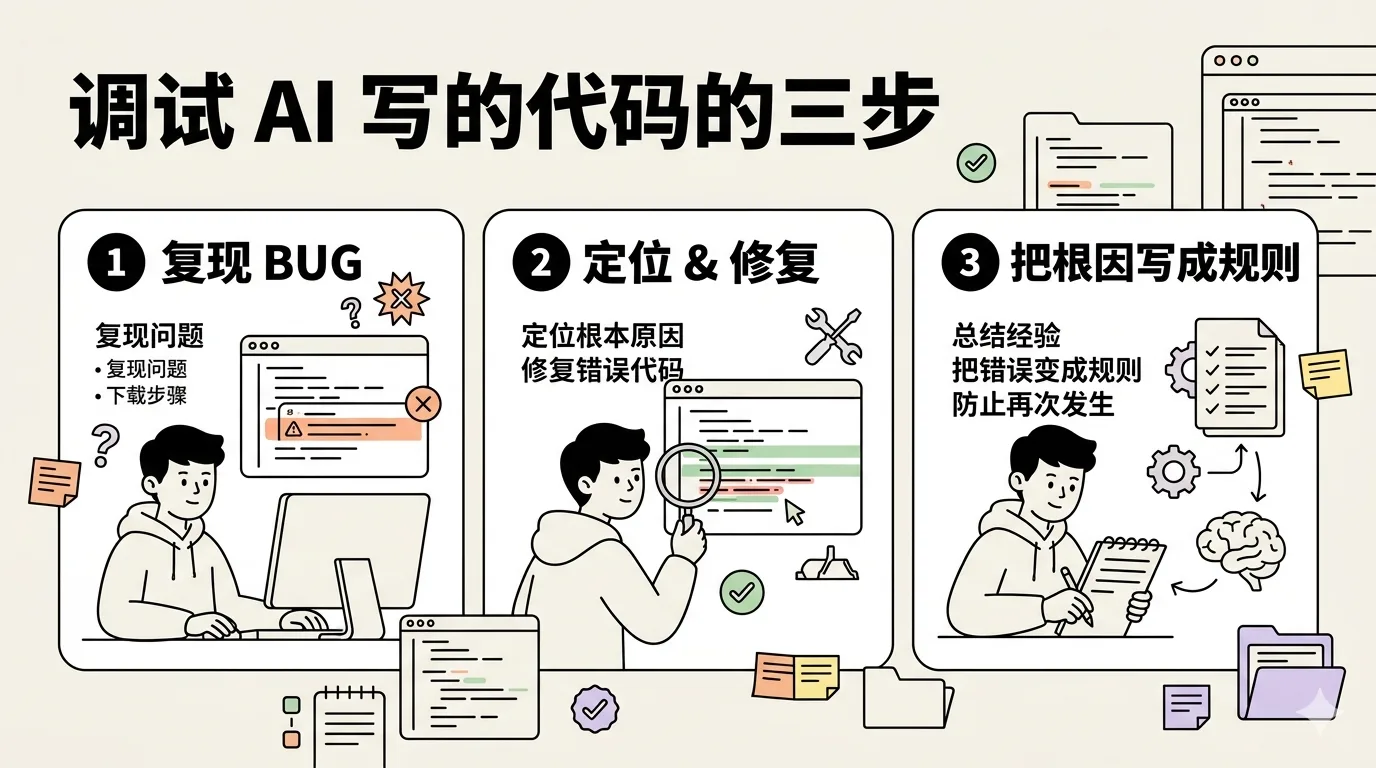
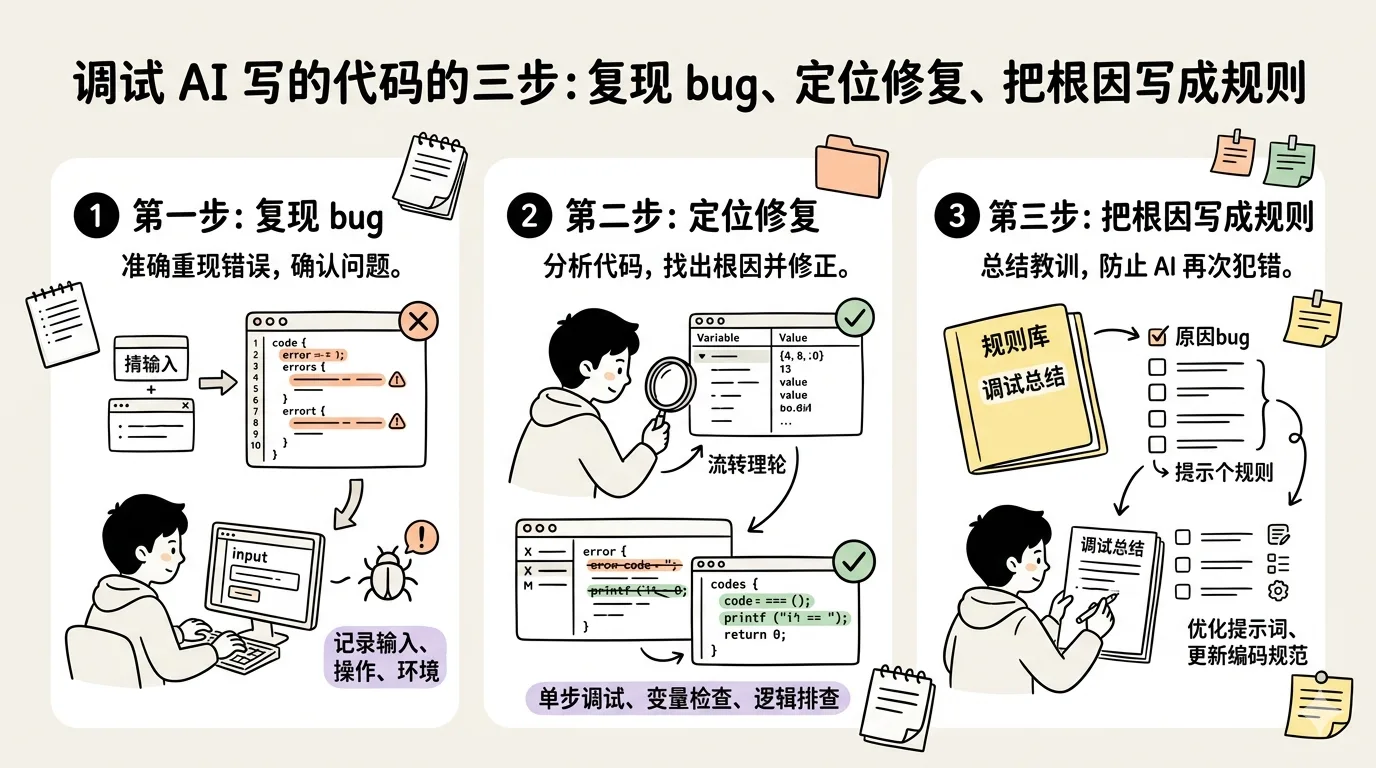
Refine flat-editorial: thin hand-drawn line + hand-lettered text + 手账 feel
Switch the flat-editorial prompt templates and typography from medium-weight line +
printed sans-serif to a THIN hand-drawn line, bold HAND-LETTERED headings, and a 手账 /
notebook feel, while keeping its muted multi-pastel semantic highlights (peach/green/
yellow/lavender), numbered step cards and code-window mocks. Preview regenerated.

diff --git a/assets/image-styles/README.md b/assets/image-styles/README.md
@@ -109,7 +109,7 @@ accounts:
 
 ### flat-editorial
 
-黑线 + 米白/白卡 + 克制柔彩高亮的结构化信息图。中等粗细黑色描边、实心黑发连帽衫小人、黑色数字圆圈分步;代码窗口 mock(绿=修复 / 桃=报错 / 红波浪线)、便签、文件夹、对勾、扁平小图标。比暖手绘更冷静专业,信息密度更高。
+细黑线手绘 + 手写体标题 + 米白/白卡 + 克制柔彩高亮的手账式结构信息图。细而利落的黑线、实心黑发连帽衫小人、黑色数字圆圈分步;代码窗口 mock(绿=修复 / 桃=报错 / 红波浪线)、便签、文件夹、对勾、扁平小图标。和暖手绘一样走手账+手写,但配色是黑+米白为主、柔彩多色只做语义高亮,信息密度更高。
 
 <table>
 <tr><td width="300">